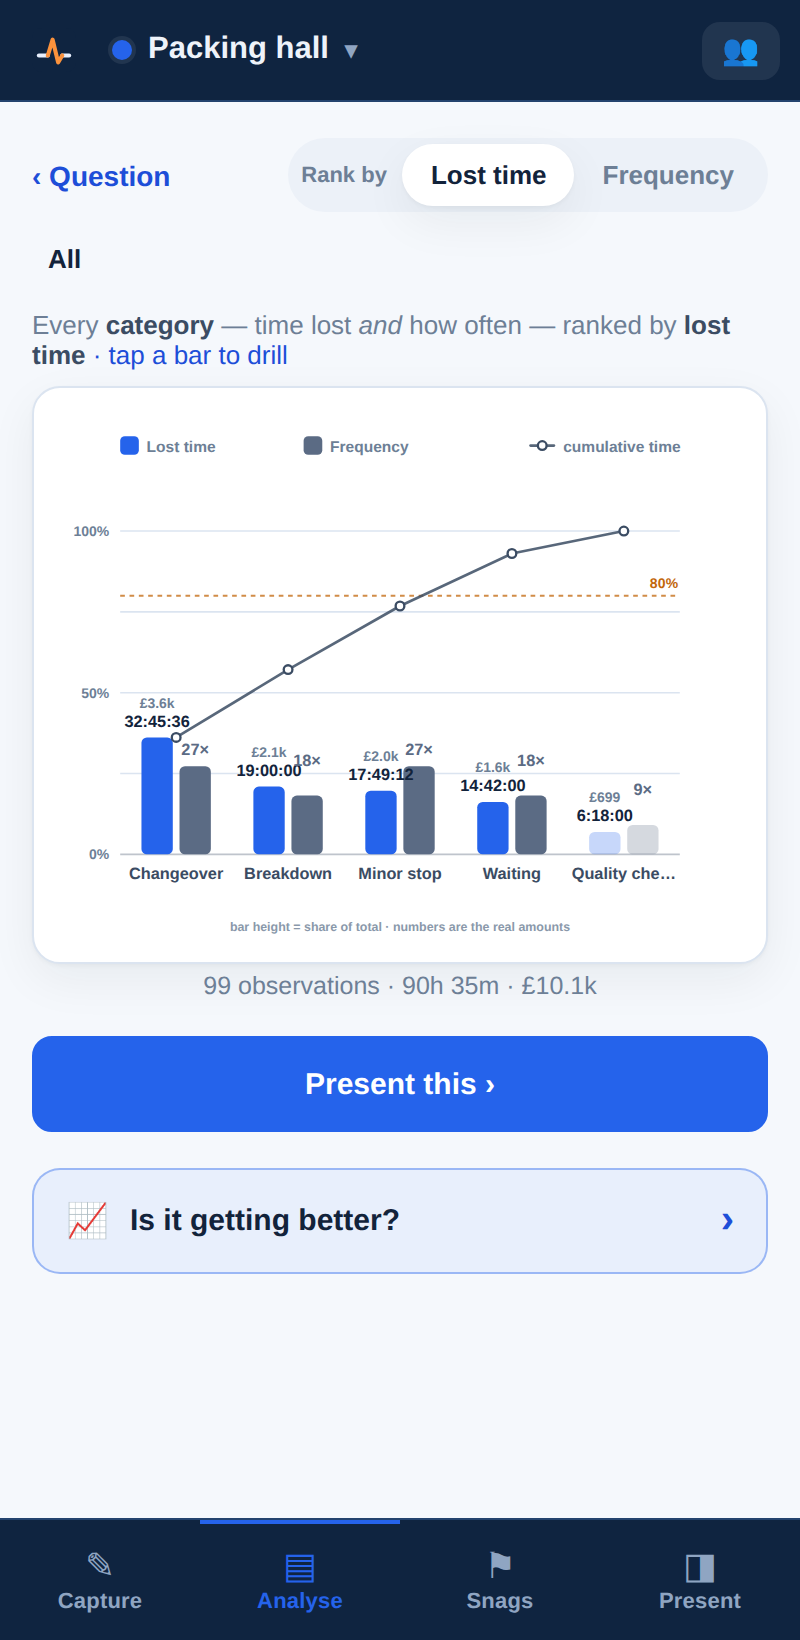
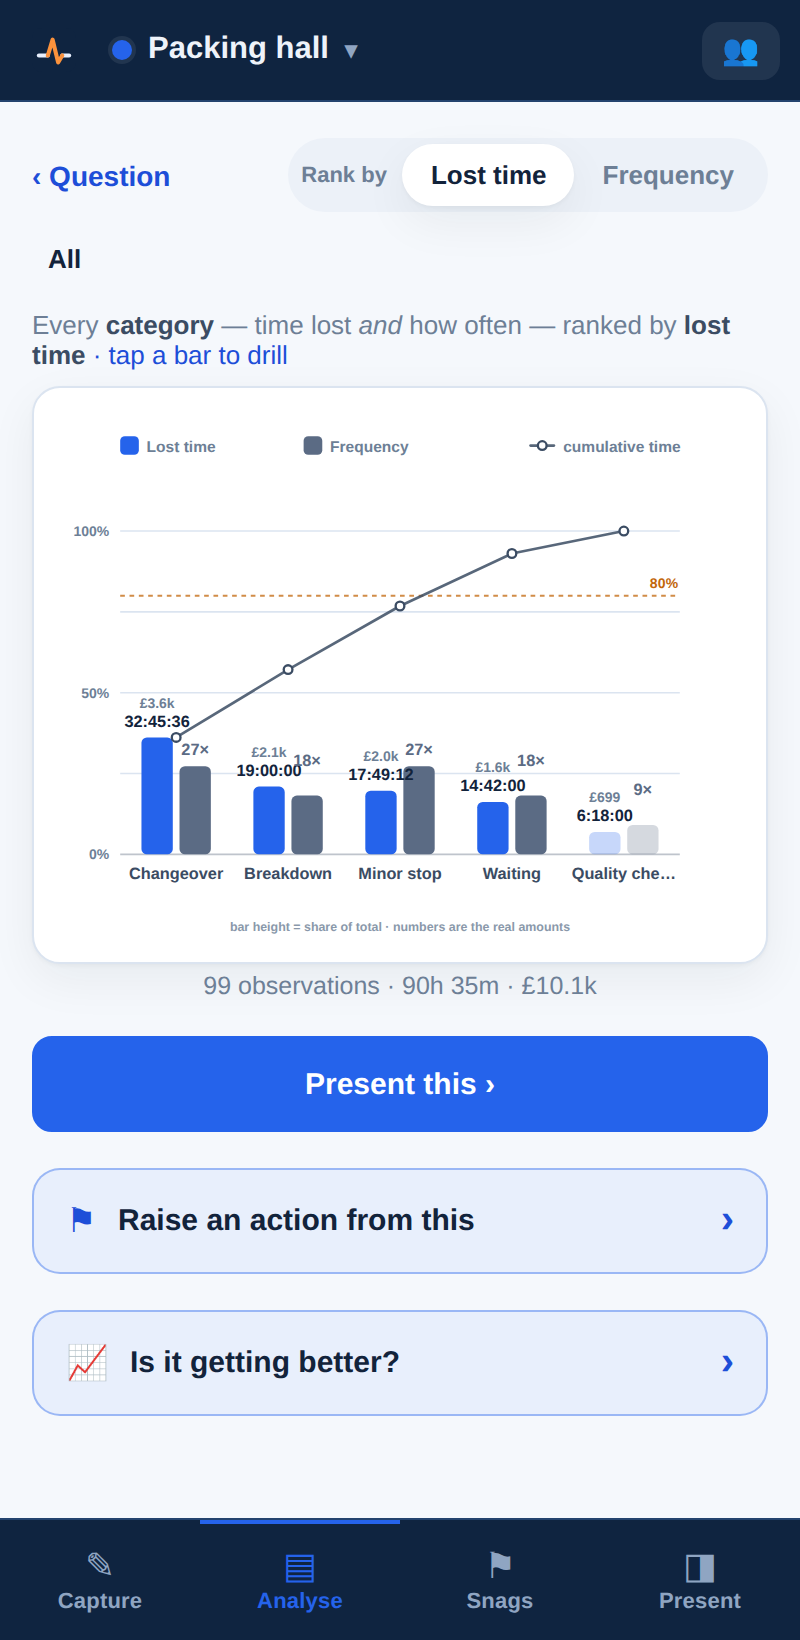
First-run walkthrough: invitees get the instruction manual as a tour
A new user's first sign-in opens a seven-step walkthrough in working
order — log what you see, read the Pareto, drill and raise an action,
film the walk and pin faults, work the snag list, then where the proof
lives — each step illustrated with a real screenshot (including a new
snag-list shot in the guide set). Shows once per device; Skip, Escape
and arrow keys work; replayable any time from a link on the home page.

Claude-Session: https://claude.ai/code/session_01F2M8HFfcf9cSp1CNv7zEXQ

Changed region(s): [[0.0938, 0.7152, 0.5938, 0.7774], [0.1562, 0.8085, 0.5, 0.8396], [0.0938, 0.8085, 0.125, 0.8396]]

diff --git a/src/ui/Tour.tsx b/src/ui/Tour.tsx
@@ -1,0 +1,115 @@
+/* The first-run walkthrough — the instruction manual, played as a tour. A new
+ * invitee signs in and gets walked through the two systems in working order
+ * (log → Pareto → drill/actions, then film → pin → snag list) and where the
+ * proof lives. Shows once per device (localStorage flag); replayable from the
+ * home page. Every picture is the real product. */
+import { useEffect, useState } from 'react';
+
+const KEY = 'faultline_tour_v1';
+export const tourSeen = (): boolean => { try { return !!localStorage.getItem(KEY); } catch { return true; } };
+const markSeen = () => { try { localStorage.setItem(KEY, String(Date.now())); } catch { /* private mode */ } };
+
+const STEPS: Array<{ img: string; title: string; dos: string[] }> = [
+  {
+    img: 'home', title: 'Welcome to Faultline',
+    dos: [
+      'You\'ve been invited into a team that logs problems where they happen — and proves they get fixed.',
+      'Workspaces are rooms: you see the ones you own or were invited into. Everyone in a room works on the same data.',
+      'This takes two minutes. Replay it any time from the home page.',
+    ],
+  },
+  {
+    img: 'capture', title: '1 · Log what you see',
+    dos: [
+      'Open a workspace — you land on Capture.',
+      'Tap the machine, then what you saw (Jam, Changeover…).',
+      'Put a time on it three ways: ⏱ stopwatch it live, type the minutes, or “Log now” for something that just happened.',
+      'No signal on the floor? Log anyway — it syncs itself later.',
+    ],
+  },
+  {
+    img: 'pareto', title: '2 · Read the Pareto',
+    dos: [
+      'Analyse asks the only question that matters: where is the line losing time?',
+      'Tallest bar = biggest loss, in hours and pounds.',
+      'The dotted 80% line marks the vital few — attack those first.',
+    ],
+  },
+  {
+    img: 'drill', title: '3 · Drill in. Raise an action.',
+    dos: [
+      'Tap a bar to ask why — problem → kind of problem → machine.',
+      'When the board shows where the fix goes, tap ⚑ Raise an action: what to do and who owns it.',
+      'Actions join the snag list and age publicly until someone closes them.',
+    ],
+  },
+  {
+    img: 'asset', title: '4 · Film the walk. Pin the faults.',
+    dos: [
+      'Snags tab → film the line on your phone, infeed to outfeed.',
+      'Scrub the footage and ＋ Mark asset to freeze a machine as a named still.',
+      'Tap the still exactly where the fault is — that drops a pin. Give it an owner.',
+    ],
+  },
+  {
+    img: 'snaglist', title: '5 · Work the snag list',
+    dos: [
+      'The snag list is the live register — every pinned fault and every board action in one table.',
+      'Tap “Mine” to see your plate. Change status and owner right in the row.',
+      'Red rows are stale — open 30+ days. They don\'t hide, that\'s the point.',
+    ],
+  },
+  {
+    img: 'report', title: '6 · The proof writes itself',
+    dos: [
+      'Trend answers “is it getting better?” — a green flag marks the week each fix landed.',
+      'Report turns it all into one page — print A4 or A3, or save as PDF for Monday\'s meeting.',
+      'Nobody writes reports here. What the floor logged IS the report.',
+    ],
+  },
+];
+
+export function Tour({ open, onClose }: { open: boolean; onClose: () => void }) {
+  const [i, setI] = useState(0);
+  const close = () => { markSeen(); setI(0); onClose(); };
+
+  useEffect(() => {
+    if (!open) return;
+    const key = (e: KeyboardEvent) => {
+      if (e.key === 'Escape') close();
+      if (e.key === 'ArrowRight') setI(x => Math.min(x + 1, STEPS.length - 1));
+      if (e.key === 'ArrowLeft') setI(x => Math.max(x - 1, 0));
+    };
+    window.addEventListener('keydown', key);
+    return () => window.removeEventListener('keydown', key);
+    // eslint-disable-next-line react-hooks/exhaustive-deps
+  }, [open]);
+
+  if (!open) return null;
+  const s = STEPS[i];
+  const last = i === STEPS.length - 1;
+
+  return (
+    <div className="tour-scrim" role="dialog" aria-label="How to use Faultline">
+      <div className="tour-card">
+        <div className="tour-img"><img src={`/guide/${s.img}.png`} alt={s.title} /></div>
+        <div className="tour-body">
+          <h2 className="tour-title">{s.title}</h2>
+          <ul className="tour-list">{s.dos.map((d, k) => <li key={k}>{d}</li>)}</ul>
+        </div>
+        <div className="tour-foot">
+          <button className="linkish tour-skip" onClick={close}>Skip the tour</button>
+          <span className="tour-dots" aria-label={`Step ${i + 1} of ${STEPS.length}`}>
+            {STEPS.map((_, k) => <i key={k} className={k === i ? 'on' : ''} />)}
+          </span>
+          <span className="tour-nav">
+            {i > 0 && <button className="btn" onClick={() => setI(i - 1)}>‹ Back</button>}
+            <button className="btn btn-primary" onClick={() => (last ? close() : setI(i + 1))}>
+              {last ? 'Start walking ›' : 'Next ›'}
+            </button>
+          </span>
+        </div>
+      </div>
+    </div>
+  );
+}

diff --git a/src/screens/WorkspaceHome.tsx b/src/screens/WorkspaceHome.tsx
@@ -10,8 +10,10 @@ import { fmtRelative, plural } from '../lib/format';
 import { CloudPanel } from '../cloud/CloudPanel';
 import { AdminPanel } from '../cloud/AdminPanel';
 import { useProfile } from '../cloud/admin';
-import { useSyncedAt } from '../cloud/session';
+import { useSyncedAt, useSession } from '../cloud/session';
+import { cloudConfigured } from '../cloud/client';
 import { InstallPanel } from '../ui/InstallPanel';
+import { Tour, tourSeen } from '../ui/Tour';
 
 /* An installed PWA keeps serving its cached shell until the service worker
  * hands over, so a device can sit on an old build for a long time with nothing
@@ -63,6 +65,14 @@ export function WorkspaceHome() {
   const [error, setError] = useState('');
   const { profile } = useProfile();
   const [adminOpen, setAdminOpen] = useState(false);
+
+  // A new invitee's first sign-in gets the step-by-step walkthrough, once per
+  // device. Replayable from the link at the foot of this page.
+  const { session } = useSession();
+  const [tourOpen, setTourOpen] = useState(false);
+  useEffect(() => {
+    if (cloudConfigured && session && !tourSeen()) setTourOpen(true);
+  }, [session]);
 
   // Re-reads whenever a sync finishes, so data pulled in the background (e.g.
   // straight after signing in on a new device) appears without a manual refresh.
@@ -167,10 +177,14 @@ export function WorkspaceHome() {
 
       {/* signed-in users need a way to the tour too — for themselves, and to
           show a colleague what they're being invited into */}
-      <button className="home-guide-link" onClick={() => nav('/guide')}>
+      <button className="home-guide-link" onClick={() => setTourOpen(true)}>
+        ▶ Step-by-step walkthrough — how to use Faultline ›
+      </button>
+      <button className="home-guide-link" style={{ marginTop: 6 }} onClick={() => nav('/guide')}>
         📖 How Faultline works — the two-minute tour ›
       </button>
 
+      <Tour open={tourOpen} onClose={() => setTourOpen(false)} />
       <BuildStamp />
     </div>
   );

diff --git a/src/styles.css b/src/styles.css
@@ -712,6 +712,30 @@ button { font-family: inherit; }
   .paper-A3 .report-page { zoom: 1.38; }
 }
 
+/* ---------- the first-run walkthrough (instruction manual as a tour) ---------- */
+.tour-scrim {
+  position: fixed; inset: 0; z-index: 90; background: rgba(10, 22, 40, 0.66);
+  display: flex; align-items: center; justify-content: center; padding: 14px;
+  backdrop-filter: blur(2px);
+}
+.tour-card {
+  width: 100%; max-width: 500px; max-height: 94vh; overflow: auto;
+  background: var(--surface); border-radius: 18px; box-shadow: 0 24px 70px rgba(0, 0, 0, 0.4);
+  display: flex; flex-direction: column;
+}
+.tour-img { background: #0f2440; display: flex; justify-content: center; padding: 14px 14px 0; border-radius: 18px 18px 0 0; }
+.tour-img img { max-width: 230px; width: 62%; max-height: 34vh; object-fit: cover; object-position: top; border-radius: 12px 12px 0 0; display: block; }
+.tour-body { padding: 14px 18px 4px; }
+.tour-title { font-size: 19px; margin: 0 0 8px; }
+.tour-list { margin: 0; padding: 0 0 0 18px; display: grid; gap: 7px; }
+.tour-list li { color: var(--ink-2); font-size: 13.8px; line-height: 1.55; }
+.tour-foot { display: flex; align-items: center; gap: 10px; padding: 12px 16px 14px; }
+.tour-skip { color: var(--muted); font-size: 12.5px; }
+.tour-dots { flex: 1; display: flex; justify-content: center; gap: 5px; }
+.tour-dots i { width: 7px; height: 7px; border-radius: 50%; background: var(--line); }
+.tour-dots i.on { background: var(--brand); }
+.tour-nav { display: flex; gap: 8px; }
+
 /* ---------- actions raised from the Pareto board ---------- */
 .action-form { margin-top: 10px; }
 .action-raised {
